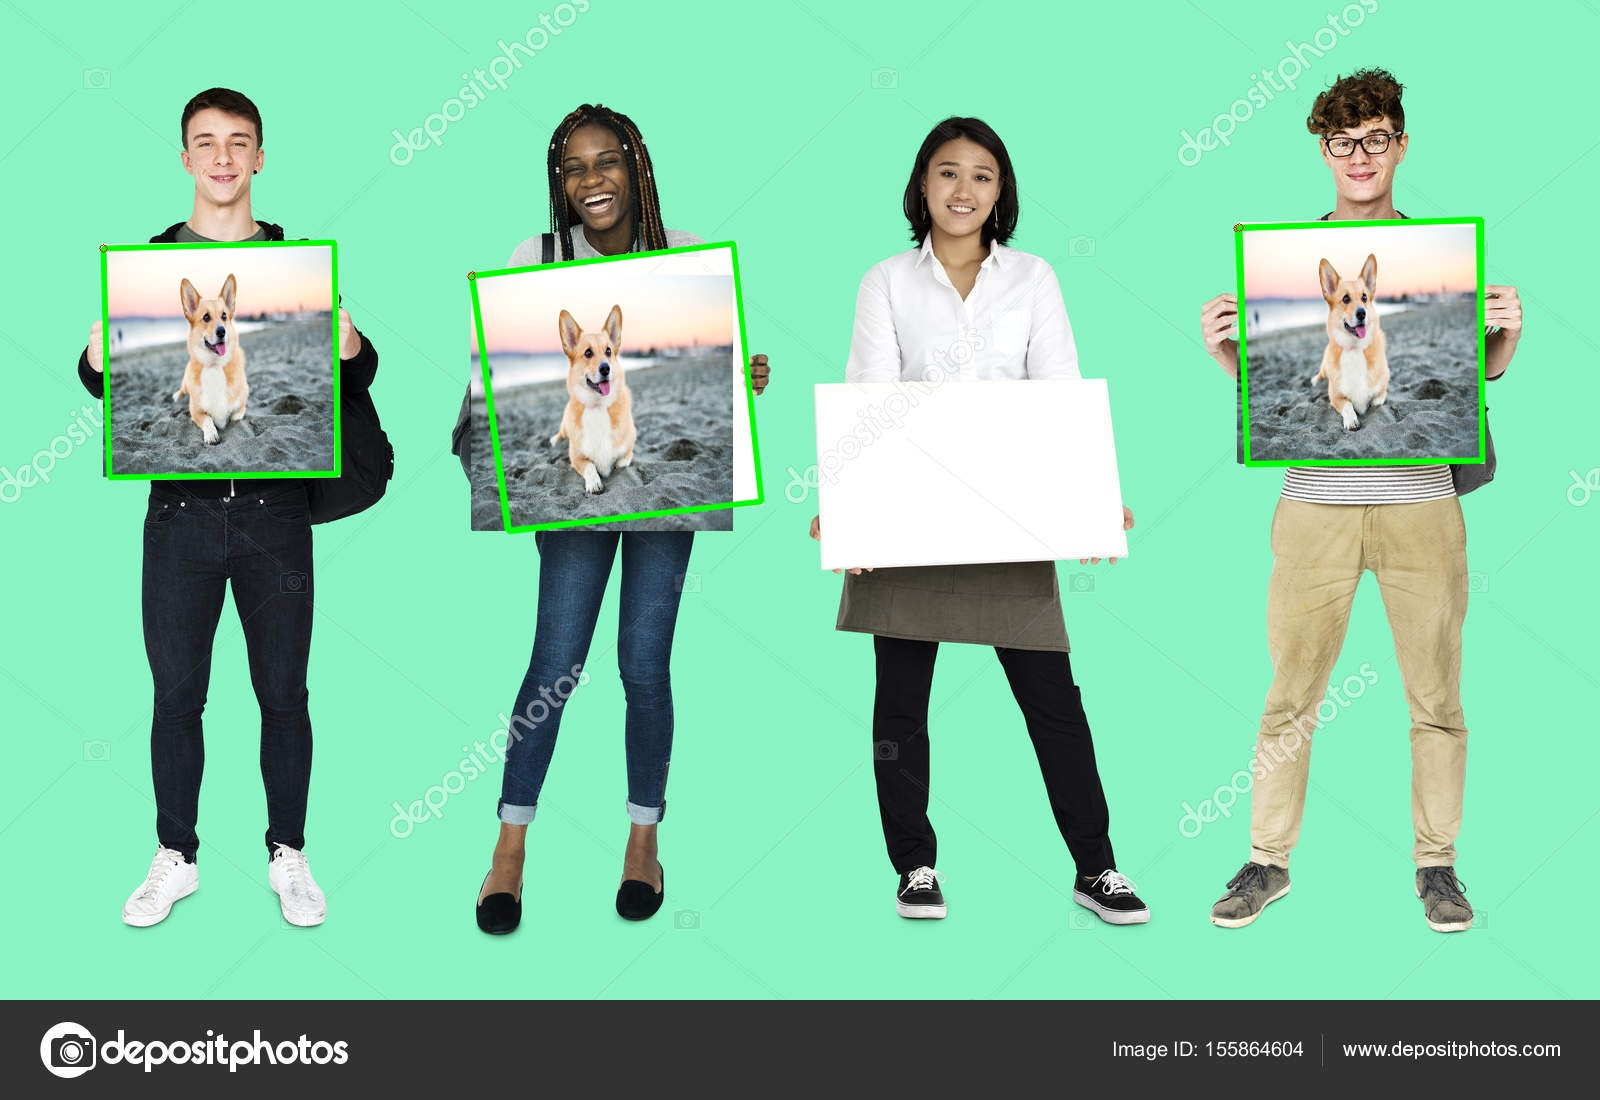
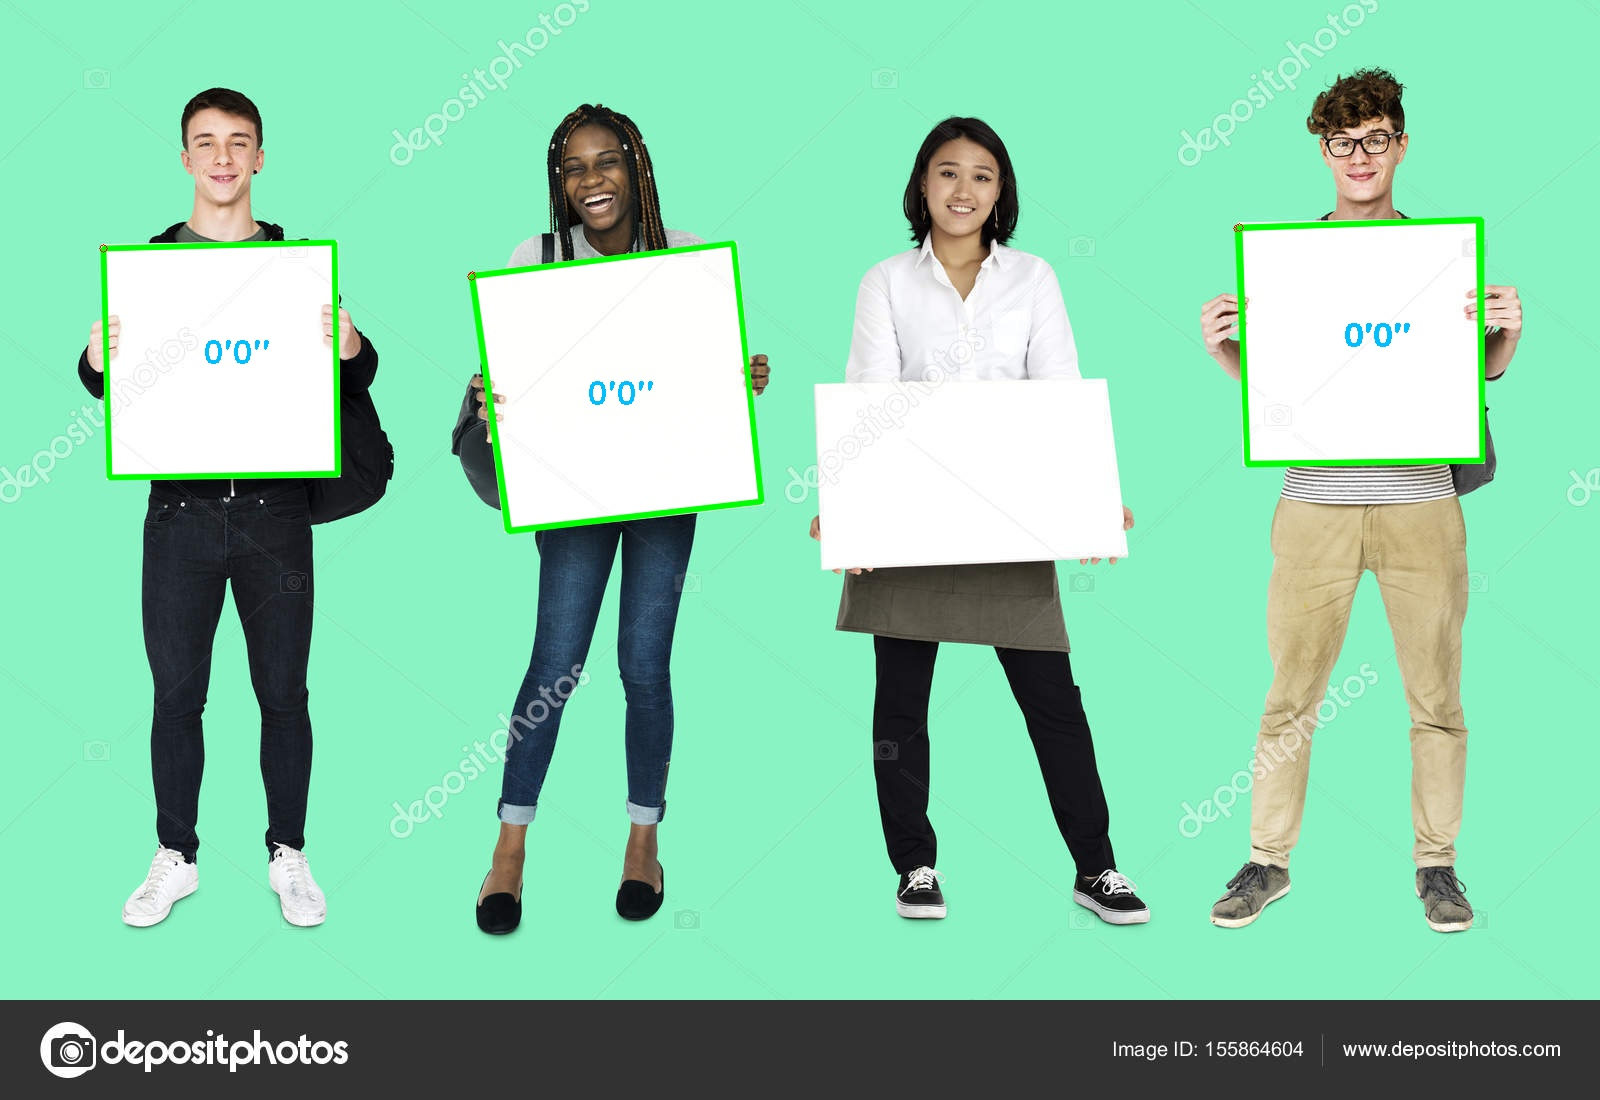
Added resizing of images for faster detection, removed rectangle manipulation and overlap removal for now

Changed region(s): [[0.2812, 0.2473, 0.4688, 0.4945], [0.75, 0.2164, 0.9375, 0.4327], [0.0625, 0.2164, 0.2188, 0.4327]]

diff --git a/487Project/PeopleDetector.cpp b/487Project/PeopleDetector.cpp
@@ -3,16 +3,16 @@
 PeopleDetector::PeopleDetector(Mat newImg)
 {
     hog.setSVMDetector(HOGDescriptor::getDefaultPeopleDetector());
-    img = newImg;
+    resize(newImg, img, Size(), 0.25, 0.25);
 }
 
 void PeopleDetector::detectPeople()
 {
     // Detect in image
-    hog.detectMultiScale(img, detections, 0, Size(3, 3), Size(), 1.05, 2, false);
+    hog.detectMultiScale(img, detections, 0, Size(1, 1), Size(), 1.15, 2, false);
 
     // Eliminate overlapping rectangles
-    int i, j;
+    /*int i, j;
     for (i = 0; i < detections.size(); i++)
     {
         Rect r = detections[i];
@@ -27,7 +27,7 @@ void PeopleDetector::detectPeople()
         }
         if (j == detections.size())
             detections_filtered.push_back(r);
-    }
+    }*/
 
 
 }
@@ -35,15 +35,15 @@ void PeopleDetector::detectPeople()
 void PeopleDetector::displayPeople()
 {
     // Slightly shrink height of rectangles and draw
-    for (int i = 0; i < detections_filtered.size(); i++)
+    for (int i = 0; i < detections.size(); i++)
     {
-        Rect r = detections_filtered[i];
+        Rect r = detections[i];
 
-        r.x += cvRound(r.width * 0.5);
+        /*r.x += cvRound(r.width * 0.5);
         r.x += -40;
         r.width = cvRound(r.width * 0.3);
         r.y += cvRound(r.height * 0.07);
-        r.height = cvRound(r.height * 0.8);
+        r.height = cvRound(r.height * 0.8);*/
         rectangle(img, r.tl(), r.br(), cv::Scalar(0, 0, 255), 3);
     }
 
